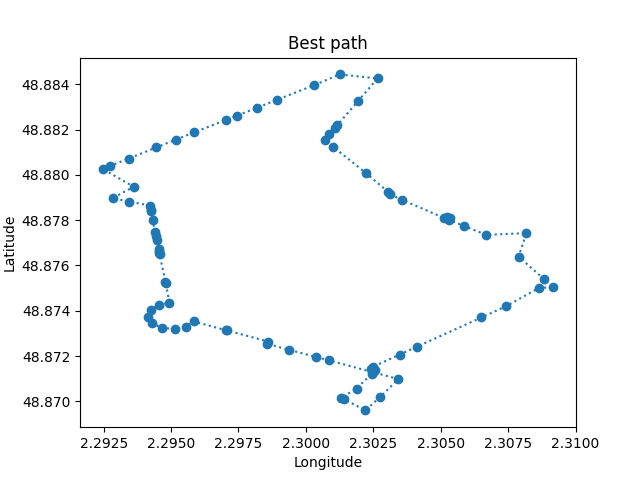
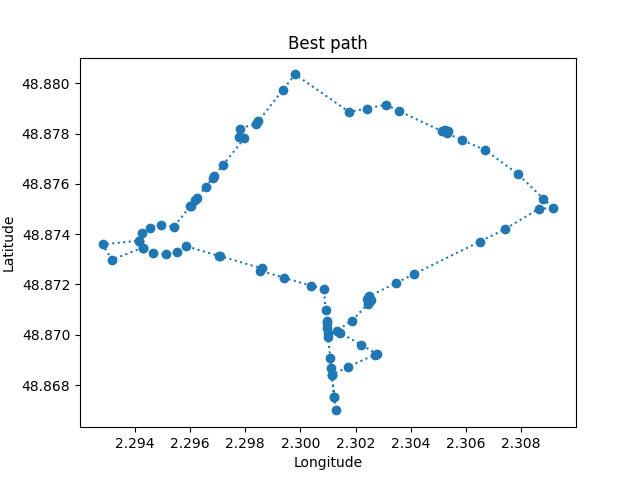
make the points_per_eaf scalable

diff --git a/srm/Core/SmartRouteMaker/Facades/SmartRouteMakerFacade.py b/srm/Core/SmartRouteMaker/Facades/SmartRouteMakerFacade.py
@@ -125,7 +125,7 @@ class SmartRouteMakerFacade():
         # Number of circles(leafs) drawn around start as flower
         leafs = 64
         # Number of points per leaf # TO DO!!!!: make this amount scale with the cicumference of the circle for precision
-        points_per_leaf = 6
+        points_per_leaf = 5
         
         # calculate the radius the circles(leafs) need to be
         radius = (max_length) / (2 * math.pi)
